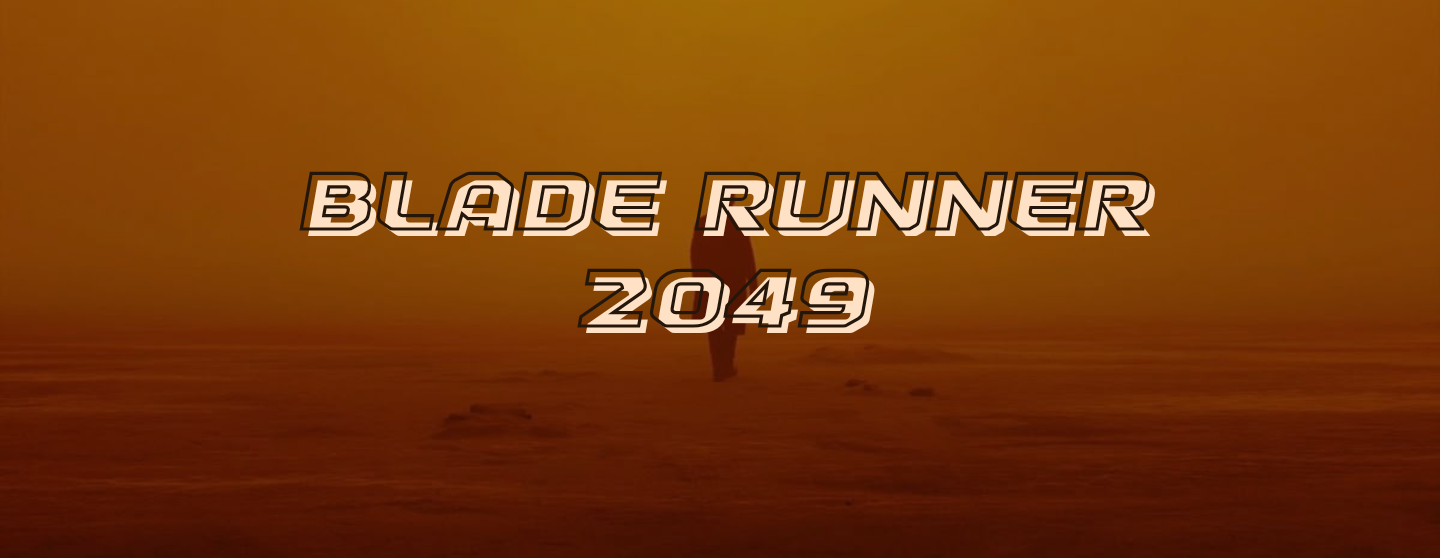
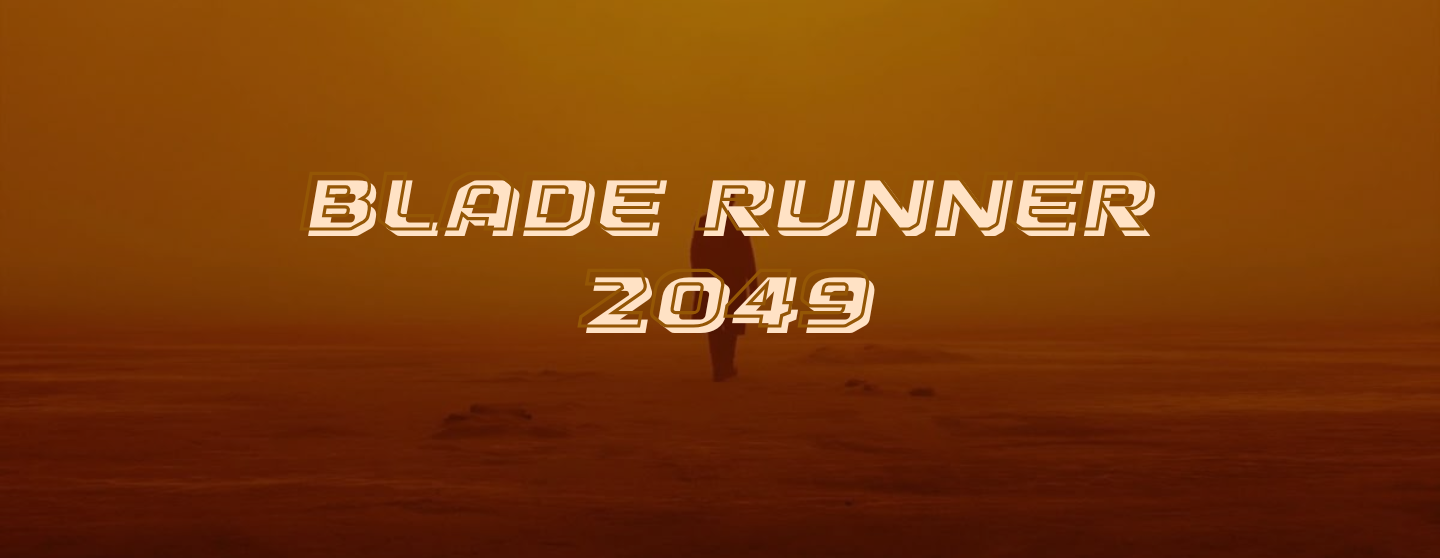
push 3

Changed region(s): [[0.1875, 0.3047, 0.8125, 0.4265], [0.4062, 0.457, 0.5938, 0.6093]]

diff --git a/bladerunner/bladerunner.html b/bladerunner/bladerunner.html
@@ -29,23 +29,27 @@
         <a href="../dune/dune.html">DUNE</a>  
     </nav>
 
-        <title>Blade Runner 2049 Review</title>
+    <section id="headerimg">
+    <img src="img/br_banner.png" alt="blade runner banner">
+    </section>
+
         <h1>Blade Runner 2049 (2017)</h1>
         <p>Rotton Tomatoes: 89%</p>
         <p>My rating: 4/5</p>
-        <h2>Sypnosis</h2>
+        <h2>Synopsis</h2>
+
         <p> Set in 2049, thirty years after the events of the first film (Blade Runner) a young LAPD officer K, a new breed replicant "blade runner", unearths a long buried secret: a replicant gave birth to a real human. This leads K on a mission to find who the child might be, even questioning if he could be the child himself, and Richard Deckard, a former blade runner who has disappeared since the events of the first film. </p>
 <br>
-        <p>As a sci-fi film, this was one of the films that impacted me the most. It became a very memorable experience. To this day, the quote that I still remember is: "Dying for the right cause is the most human thing we can do." It's a powerful message that resonates with the themes of identity and humanity in the film. 
+        <p>As a sci-fi film, this was one of the films that impacted me the most. It became a very memorable experience. To this day, the quote that I still remember is: "Dying for the right cause is the most human thing we can do." It's a powerful message that resonates with the themes of identity and humanity in the film.</p>>
 <br>
 <br>
-        Visually, the film is stunning. Every scene is a unique blend of distopian and futuristic aesthetics. Roger Deakins' cinematography is breathtaking, creating a world that is both beautiful and haunting. The use of lighting and color adds depth to the story, making it an immersive experience. 
+        <p>Visually, the film is stunning. Every scene is a unique blend of distopian and futuristic aesthetics. Roger Deakins' cinematography is breathtaking, creating a world that is both beautiful and haunting. The use of lighting and color adds depth to the story, making it an immersive experience. </p>
 <br>
 <br>
-        Performances from Ryan Gosling, Ana de Armas and Harrison Ford feel very natural and authenic. Gosling delivers a compelling performance as K, capturing the character's internal struggle and emotional depth. Ana de Armas brings warmth and vulnerability to her role as Joi, while Harrison Ford reprises his role as Deckard with a sense of gravitas and nostalgia.
+        <p>Performances from Ryan Gosling, Ana de Armas and Harrison Ford feel very natural and authenic. Gosling delivers a compelling performance as K, capturing the character's internal struggle and emotional depth. Ana de Armas brings warmth and vulnerability to her role as Joi, while Harrison Ford reprises his role as Deckard with a sense of gravitas and nostalgia.</p>
 <br>
 <br>
-        The soundtrack by the legendary composer Hans Zimmer is also worth mentioning. The music perfeclty complements the mood and atmosphere of the film. The use of electronic elements in the score really sets the mood of a scene. The most notable track is "Tears in the rain" where K realizes his fate as Deckard leaves him. The music adds an emotional weight to the scene, making it even more impactful.
+        <p>The soundtrack by the legendary composer Hans Zimmer is also worth mentioning. The music perfeclty complements the mood and atmosphere of the film. The use of electronic elements in the score really sets the mood of a scene. The most notable track is "Tears in the rain" where K realizes his fate as Deckard leaves him. The music adds an emotional weight to the scene, making it even more impactful.</p>
 
         
 

diff --git a/index.html b/index.html
@@ -37,7 +37,13 @@
 </section>
 
     <h1>WHY I LOVE VILLENEUVE'S SCI-FI FILMS</h1>
-    <p>I was first introduced to Villeneuve’s films when I watched Arrival in my home for the first time. While I do believe the movie theater experience is one of a kind, I also think that Villeneuve made this film to capture an audience, np matter if it’s in the movie house or not. I was truly in awe of how perfect each scene looked visually, and I knew from there, I wanted to see more of his work. It’s not only the visuals that make me love Villeneuve’s work, but the music as well. I am a huge fan of film scores and soundtrack. my favorite composer being Hans Zimmer. And so, every time I see “Directed by Denis Villeneuve” and “Music by Hans Zimmer” that’s when I know, I’m going to be watching a cinematic masterpiece. Arrival, Blade Runner and Dune are all rich in color and sound, and completely transport you into their worlds, and leave you wanting more of it by the end. I like the way Villeneuve’s films make me want to learn more about the each movie universe, and makes me even pick up a book for once, in search of more information about the characters and their backgrounds. So, with that said, I would like to go more in depth about my favorite sci-fi films by Villeneuve. I will be reviewing Blade Runner 2049 (2017), Arrival (2016), and Dune: Part One (2021).</p>
+    <p>I was first introduced to Villeneuve’s films when I watched Arrival in my home for the first time. While I do believe the movie theater experience is one of a kind, I also think that Villeneuve made this film to capture an audience, np matter if it’s in the movie house or not. I was truly in awe of how perfect each scene looked visually, and I knew from there, I wanted to see more of his work. 
+<br>
+<br>
+        It’s not only the visuals that make me love Villeneuve’s work, but the music as well. I am a huge fan of film scores and soundtrack. my favorite composer being Hans Zimmer. And so, every time I see “Directed by Denis Villeneuve” and “Music by Hans Zimmer” that’s when I know, I’m going to be watching a cinematic masterpiece. Arrival, Blade Runner and Dune are all rich in color and sound, and completely transport you into their worlds, and leave you wanting more of it by the end. I like the way Villeneuve’s films make me want to learn more about the each movie universe, and makes me even pick up a book for once, in search of more information about the characters and their backgrounds. So, with that said, I would like to go more in depth about my favorite sci-fi films by Villeneuve. 
+<br>
+<br>
+        I will be reviewing Blade Runner 2049 (2017), Arrival (2016), and Dune: Part One (2021).</p>
 
     <section id="movieposters">
         <img src="img/1.png" alt="blade">

diff --git a/dune/dune.html b/dune/dune.html
@@ -10,7 +10,7 @@
 
 <!--LINK STYLE SHEET-->
 
-     <link rel="stylesheet" href="css/dune.css">
+     <link rel="stylesheet" href="dune.css">
          <link rel="stylesheet" href="css/index.css">
     <link rel="preconnect" href="https://fonts.googleapis.com">
     <link rel="preconnect" href="https://fonts.gstatic.com" crossorigin>
@@ -24,13 +24,15 @@
 <body>
 
     <nav>
-        <a href="../index.html">HOME</a> |
-        <a href="../bladerunner/bladerunner.html">BLADE RUNNER 2049</a> |
-        <a href="../arrival/arrival.html">ARRIVAL</a> |
-        <a href="../dune/dune.html">DUNE</a> | 
+        <a href="../index.html">HOME</a> 
+        <a href="../bladerunner/bladerunner.html">BLADE RUNNER 2049</a> 
+        <a href="../arrival/arrival.html">ARRIVAL</a> 
+        <a href="../dune/dune.html">DUNE</a>  
     </nav>
 
-        <title>Dune Review</title>
+    <section id="headerimg">
+    <img src="img/dune_banner.png" alt="blade runner banner">
+    </section>
         <h1>Dune Review</h1>
 </body>
                    

diff --git a/arrival/arrival.html b/arrival/arrival.html
@@ -9,9 +9,9 @@
     <title>Arrival Review</title>
 
 <!--LINK STYLE SHEET-->
-     <link rel="stylesheet" href="css/arrival.css">
+     <link rel="stylesheet" href="arrival.css">
 
-    <link rel="preconnect" href="https://fonts.googleapis.com">
+    <link rel="preconnect" href="https://fonts.googleapis.com"> 
     <link rel="preconnect" href="https://fonts.gstatic.com" crossorigin>
     <link href="https://fonts.googleapis.com/css2?family=Libre+Baskerville:ital,wght@0,400..700;1,400..700&display=swap" rel="stylesheet" href="css/index.css">
 
@@ -29,7 +29,9 @@
         <a href="../dune/dune.html">DUNE</a>  
     </nav>
 
-        <title>Arrival Review</title>
+    <section id="headerimg">
+    <img src="img/arrival_banner.png" alt="blade runner banner">
+    </section>
         <h1>Arrival Review</h1>
 </body>
                    

diff --git a/bladerunner/br.css b/bladerunner/br.css
@@ -27,8 +27,10 @@ nav{
     background-color: #1D1E1E;
     padding: 14px;
     width: 100%;
-    text-align: left; 
-     position:fixed;
+    text-align: left;
+    position:fixed; 
+    text-align: center;
+
 }
 
 nav a{
@@ -49,3 +51,15 @@ a{
 a:hover{
     color:#D0C7B0;
 }
+
+#headerimg{
+    width: 100%;
+    display: block;
+    margin-bottom: 50px;
+}
+
+#headerimg img{
+    width: 100%;
+    display: block;
+}
+

diff --git a/dune/dune.css b/dune/dune.css
@@ -16,6 +16,7 @@ p{
     font-family: "Fira Sans", sans-serif;
     font-weight: 400;
     font-style: normal;
+
 }
 
 /* NAV STARTS HERE  */
@@ -27,8 +28,10 @@ nav{
     background-color: #1D1E1E;
     padding: 14px;
     width: 100%;
-    text-align: left; 
-    position:fixed;
+    text-align: left;
+    position:fixed; 
+    text-align: center;
+
 }
 
 nav a{

diff --git a/css/index.css b/css/index.css
@@ -45,8 +45,10 @@ nav{
     background-color: #1D1E1E;
     padding: 14px;
     width: 100%;
-    text-align: left; 
-    position:fixed;
+    text-align: left;
+    position:fixed; 
+    text-align: center;
+
 }
 
 nav a{
@@ -74,6 +76,7 @@ a:hover{
     width: 100%;
     display: block;
     margin-bottom: 50px;
+    
 }
 
 #headerimg img{

diff --git a/arrival/arrival.css b/arrival/arrival.css
@@ -27,8 +27,10 @@ nav{
     background-color: #1D1E1E;
     padding: 14px;
     width: 100%;
-    text-align: left; 
-    position: fixed;
+    text-align: left;
+    position:fixed; 
+    text-align: center;
+
 }
 
 nav a{
